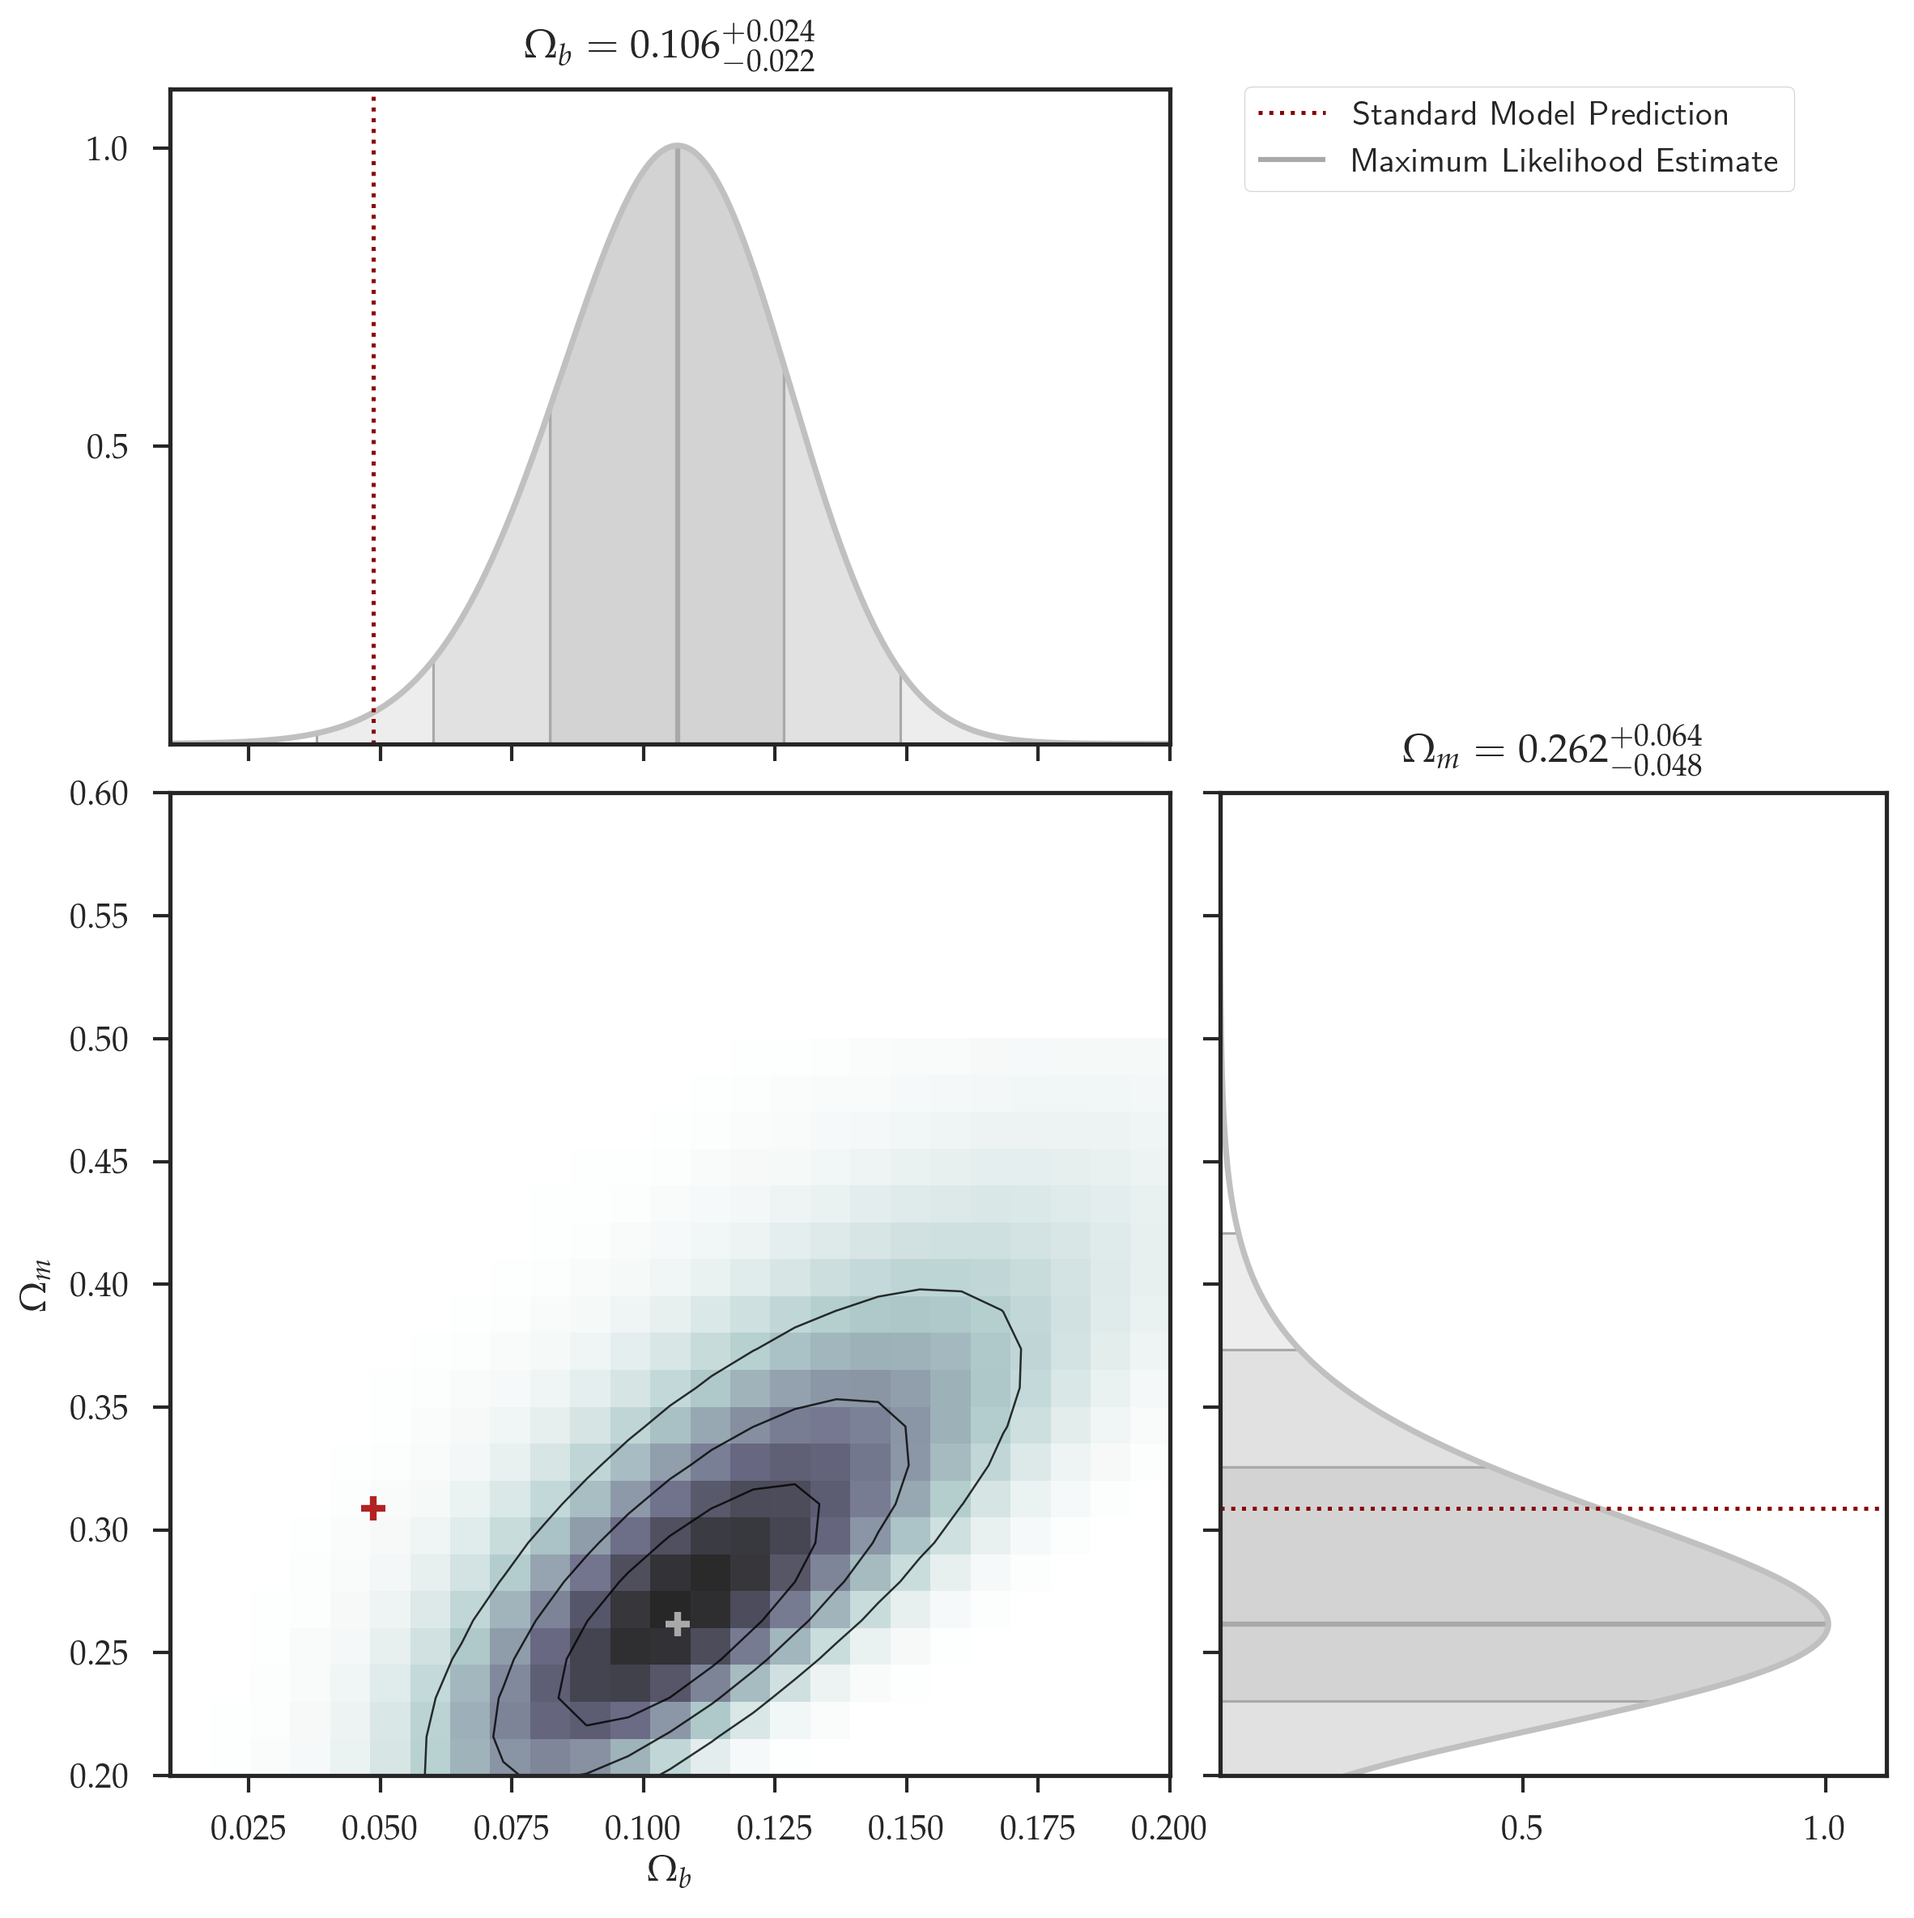
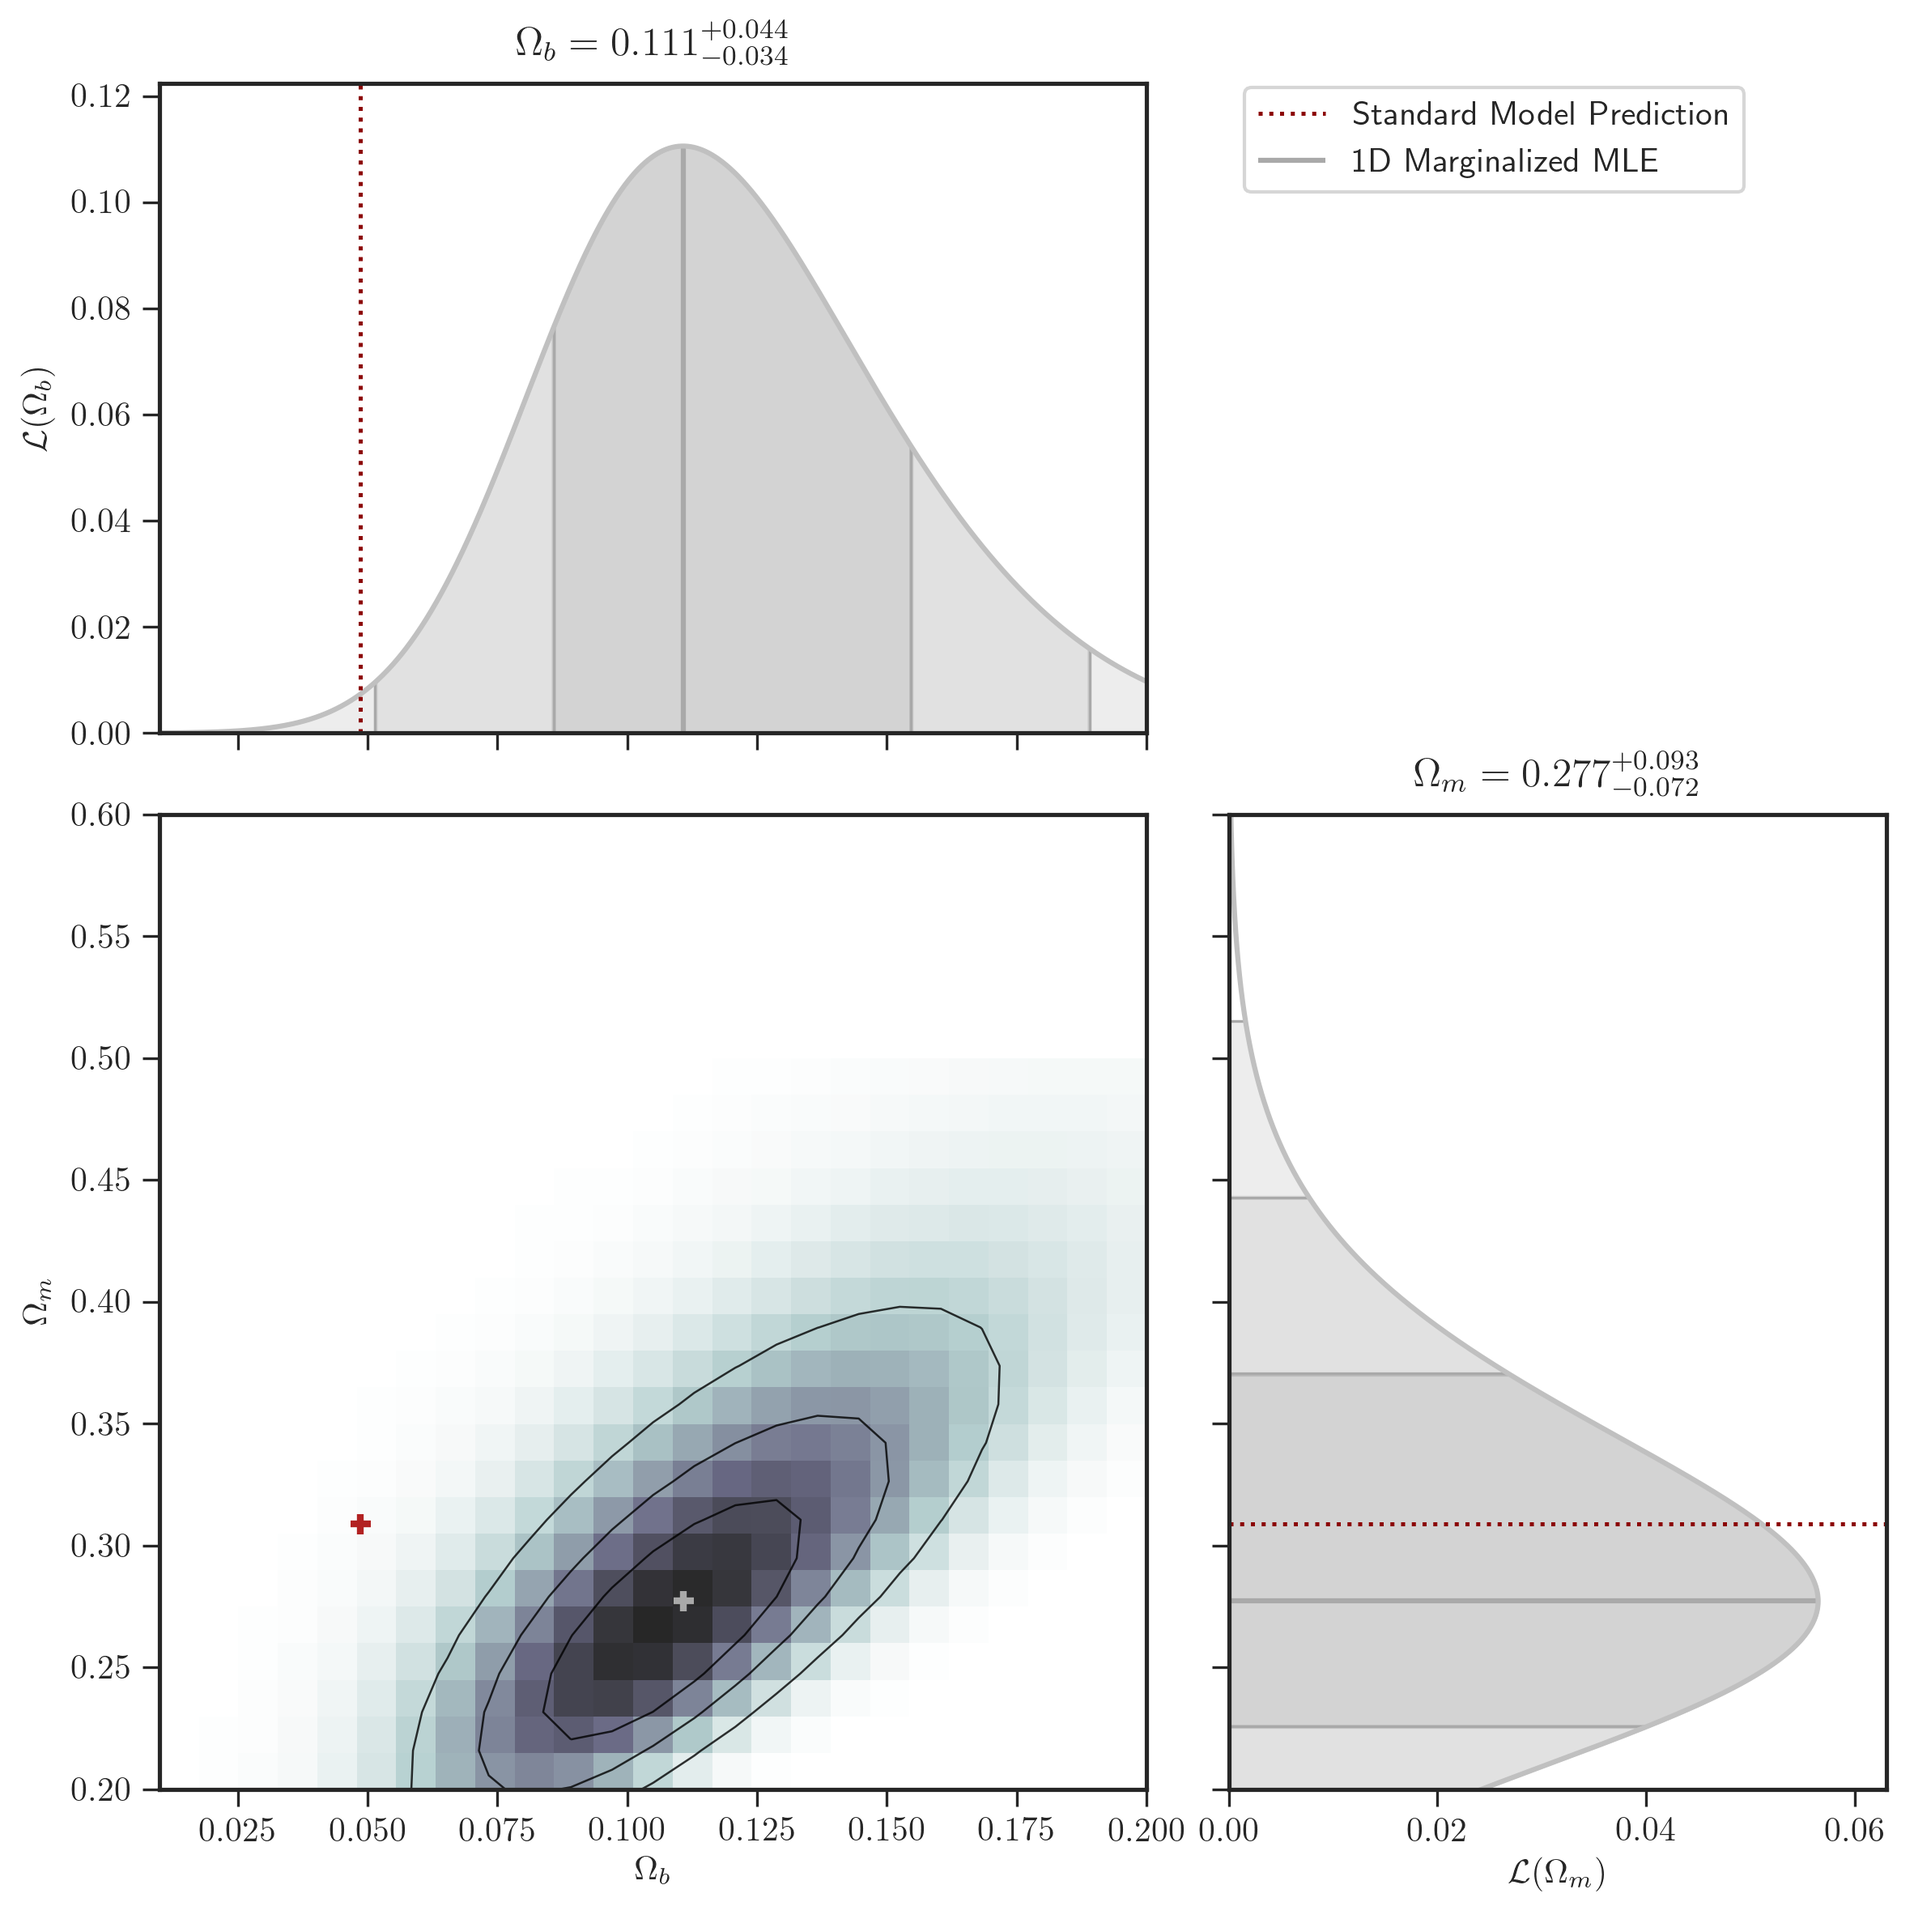
Fixed Plots
Changed plots to be the 1D marginalized likelihood on top and right

diff --git a/markdowns/Results and Discussion.md b/markdowns/Results and Discussion.md
@@ -10,13 +10,19 @@ eqnos-plus-name: Eq.
 
 # Results and Discussion
 
-- In this section we present the results of our power scaling method using the Cosmicflows-3 catalogue. We then compare our results to $\Lambda\text{CDM}$ predictions by comparing the power scaled likelihood peaks to the likelihood of the standard model given the velocity data and then by comparing the constraints on $\Omega_m$ and $\sigma_8$ from a marginalized likelihood analysis with and without power scaling the linear power spectrum $P(k)$.
+- In this section we present the results of our power scaling method using the Cosmicflows-3 catalogue. We then compare our results to $\Lambda\text{CDM}$ predictions by comparing the power scaled likelihood peaks to the likelihood of the standard model given the velocity data and then by comparing the constraints on $\Omega_m$ and $\sigma_8$ from a marginalized likelihood analysis with and without power scaling the linear power spectrum $P(k)$.
 
-  ## Calculating the marginalized loglikelihood
+  ## Marginalized Likelihood over $\sigma_*$
 
-  - As previously mentioned, we include the nuisance parameter $\sigma_*$ to account for the 1D velocity dispersion due to small-scale, non-linear motion in our error measurements. The value of $\sigma_*$ varies between galaxy surveys and is dependent on the underlying sample and the method of measurement and is typically on the order of $\sim 200-300$\si{\km\per\s}. While values for $\sigma_*$ have been constrained for individual surveys, fixing $\sigma_*$ can bias results towards models that favor the value chosen. Therefore, we choose to leave $\sigma_*$ as a free parameter due to it also acting as an additional noise term that includes unaccounted for systematic errors, given that the CF3 is a compilation of various surveys. To make an independent maximum likelihood, we marginalize over $\sigma_*$ varying between $0 < \sigma_* \leq 1000$\si{\km\per\s} using the method described in Section #.
+  - As previously mentioned in Sec #, we include the Gaussian distributed variance term $\sigma_*^2$ within @eq:covariance to account for the 1D velocity dispersion due to small-scale, non-linear motion in our error measurements. The value of $\sigma_*$ varies between galaxy surveys and is dependent on the underlying sample and the method of measurement and is typically on the order of $\sim 250-350$\si{\km\per\s}. While values for $\sigma_*$ have been constrained for individual surveys, fixing $\sigma_*$ can bias results towards models that favor the value chosen. Therefore, we leave $\sigma_*$ as a free parameter due to it also acting as an additional noise term that includes unaccounted for systematic errors which is particularly useful given that the CF3 is a compilation of various surveys. In order to calculate a maximum likelihood estimate independent of $\sigma_*$ we marginalize over the nuisance parameter between $0 < \sigma_* \leq 1000$\si{\km\per\s} using the method described in Section #.
+
+  - We find that the inclusion of baryons in the parameterization of the power spectrum provided by Eisenstein & Hu (1998) to strongly influence both the shape and amplitude of the power spectrum on both small and large scales. Fixing parameters to the fiducial cosmology provided by the best-fitting values from _Planck_, we show our constrain on $\Omega_b$ using @eq:likelihood in Fig #.  
 
   - $\Omega_b$ causes problems with the model. Show 1D likelihood over $\Omega_b$ keeping other values constant. Show power spectrum with ratio between mle and std to show the need for power on large scales.
+
+    
+
+    ![ml_OmOb_standard](../images/ml_OmOb_standard.png)
 
     ![powerspectrum_Ob](/home/kdbarajas/GitHub/cosmology-thesis/images/powerspectrum_Ob.png)
 
@@ -42,7 +48,8 @@ eqnos-plus-name: Eq.
 
   - MLE with and without Power Scaling features. without adding power on large scales that the MLE is very inconsistent with the standard model. When adding the peaks in the power scaling likelihood that both values are consistent with standard model.
 
-  - 
+    
 
     
+
 

diff --git a/markdowns/Theory.md b/markdowns/Theory.md
@@ -67,7 +67,7 @@ $$
   $$
   q = \frac{k}{[h \ \text{Mpc}^{-1}]} \cdot \left( \frac{\vartheta_{2.7}^2}{\Gamma} \right) \,.
   $$
-  with the CMB temperature given by $T_\text{CMB} = 2.7\vartheta_{2.7}$\si{\kelvin} and we use the shape parameter $\Gamma = \Omega_m h$ in the zero-baryon limit. However, the baryonic density is non-negligible and so a more accurate fit that takes into account the effects of baryonic oscillations is given by
+  with the CMB temperature given by $T_\text{CMB} = 2.7\vartheta_{2.7}$\si{\kelvin} and we use the shape parameter $\Gamma$ which in the zero-baryon limit (i.e. at large scales) can be approximated by  $\Gamma = \Omega_m h$. However, the baryonic density is non-negligible at the scales that we probe and so a more accurate fit that takes into account the effects of baryonic oscillations is given by
   $$
   \Gamma_\text{eff}(k) = \Omega_m h \left[ \alpha_\Gamma + \frac{1- \alpha_\Gamma}{1 + (0.43ks)^4} \right]
   $$
@@ -124,7 +124,7 @@ $$
   $$
   {#:eq:covariance}
 
-  - where the noise term $\Sigma_{i}^2 = \sigma_{\text{obs},i}^2 + \sigma_{*,i}^2$ represents the sum of the observational uncertainties $\sigma_{\text{obs},i}$ and the 1D velocity dispersion term $\sigma_{*,i}$ that account for non-linear small-scale motions.
+  - where the noise term $\Sigma_{i}^2 = \sigma_{\text{obs},i}^2 + \sigma_{*,i}^2$ represents the sum of the observational uncertainties $\sigma_{\text{obs},i}$ and the 1D velocity dispersion term $\sigma_{*,i}$ that accounts for non-linear small-scale motions.
 
   - $\left< S_i S_j  \right>$ depends on the model and the relative position between galaxies $i$ and $j$ such that
     $$
@@ -156,8 +156,6 @@ $$
 
 
 
-
-
 ### Maximum Likelihood Estimate
 
 - Given the line-of-sight peculiar velocity vector $\pmb{S}= (S_i, \ldots, S_N)$ for a given observational dataset of $N$ galaxies, the probability of observing a given cosmological model is given by
@@ -180,7 +178,7 @@ $$
 
 - If we assume the standard 'non-informative' prior (i.e $p(\pmb{\theta}) = \text{const.}$), then the marginal posterior distribution of $\theta_i$ is given by
   $$
-  p(\pmb{S} \, | \, \vartheta) \equiv \mathcal{L}(\vartheta \, | \, \pmb{S}) \propto \int_{-\infty}^\infty \mathcal{L}(\pmb{\theta} \, | \, \textbf{S}) \, d\theta_n
+   \mathcal{L}(\vartheta \, | \, \pmb{S}) \equiv p(\pmb{S} \, | \, \vartheta) \propto \int_{-\infty}^\infty \mathcal{L}(\pmb{\theta} \, | \, \textbf{S}) \, d\theta_n
   $$
   {#eq:marginalization}
 
